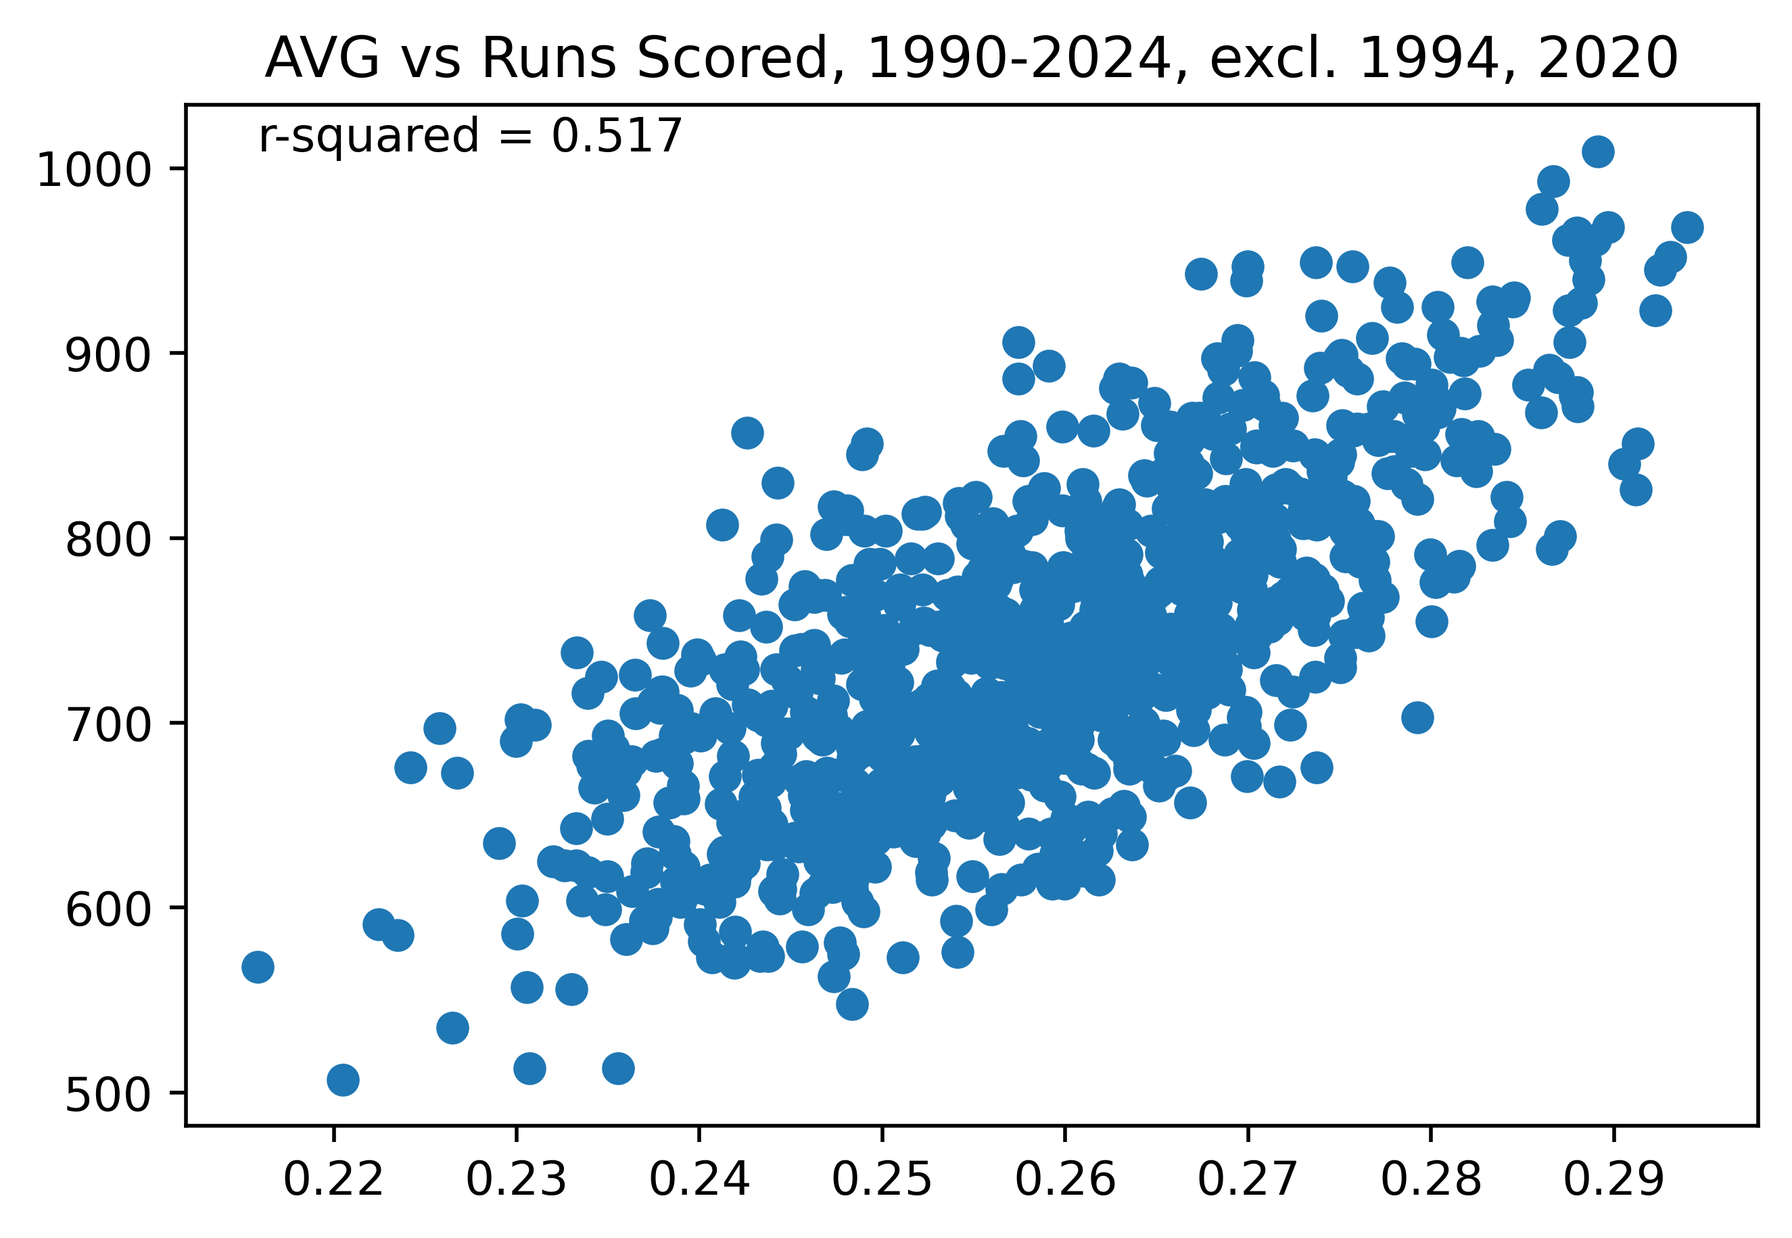
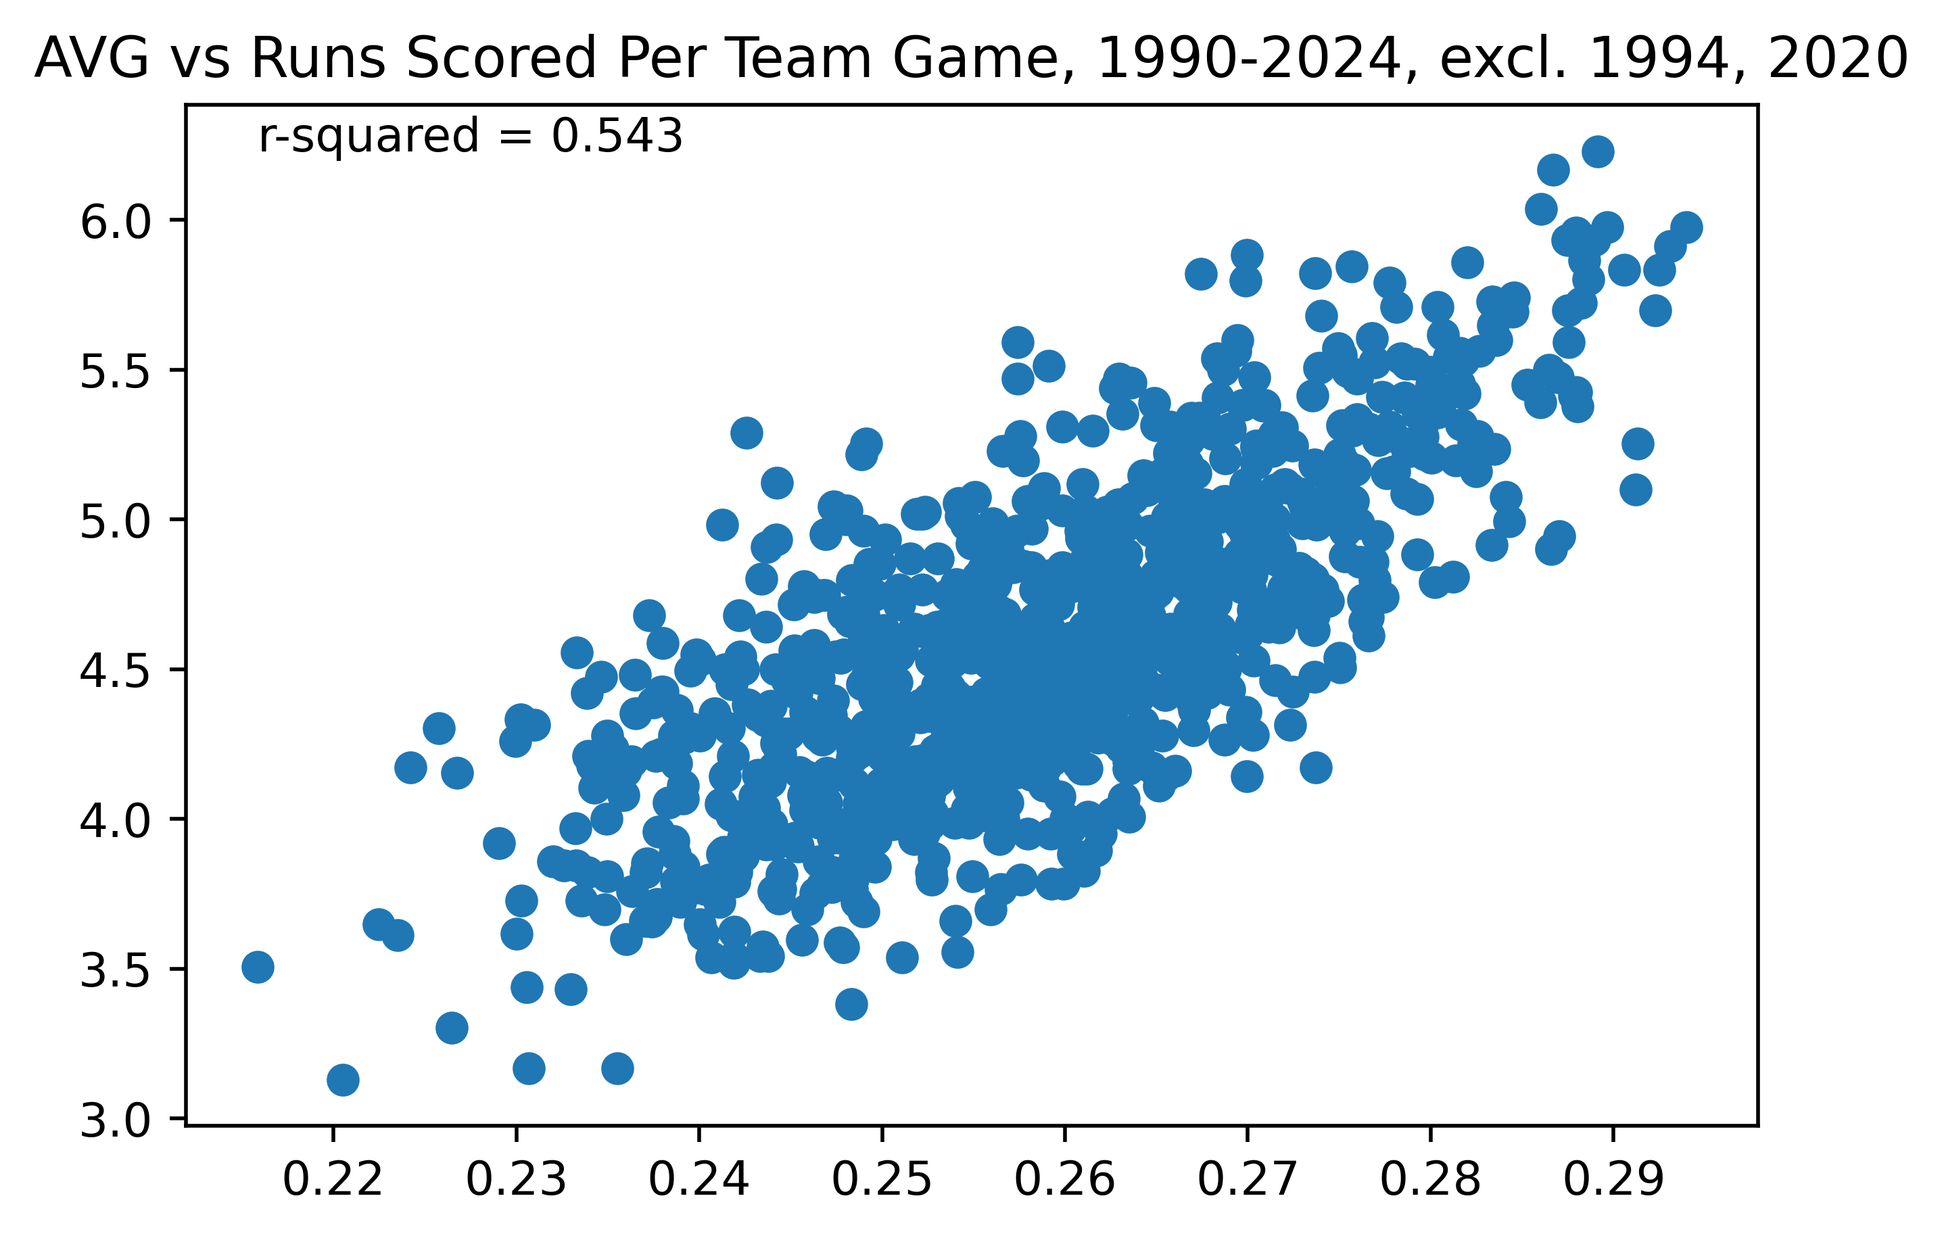
[PUBLISHER] MERGE #21
* PUSH NOTE : 004 wOBA.md

* PUSH ATTACHMENT : woba_vs_runs.png

* PUSH NOTE : 003 Run Expectancy.md

* PUSH NOTE : 001 What's so bad about batting average.md

* PUSH ATTACHMENT : avg_vs_runs.png

* PUSH ATTACHMENT : obp_vs_runs.png

* PUSH NOTE : 002 On-Base Plus Slugging.md

* PUSH ATTACHMENT : ops_vs_runs.png

diff --git a/content/Intro to Sabermetrics/101 Basic Hitting Stats/Weighted On Base Average and Linear Weights (Sabermetrics 101: Basic Hitting Stats — Part 4).md b/content/Intro to Sabermetrics/101 Basic Hitting Stats/Weighted On Base Average and Linear Weights (Sabermetrics 101: Basic Hitting Stats — Part 4).md
@@ -1,0 +1,73 @@
+---
+title: "Weighted On Base Average and Linear Weights (Sabermetrics 101: Basic Hitting Stats — Part 4)"
+permalink: sabermetrics/101/2025-05-08-woba
+category: Intro to Sabermetrics/101 Basic Hitting Stats
+tags:
+  - sabermetrics
+  - sabermetrics-101
+publish: true
+share: true
+Section: "[[101 Basic Hitting Stats]]"
+publishDate: 2025-05-08
+modified: 2025-05-08
+custom-tags: "[[Baseball]]"
+---
+Our next step on our Sabermetric journey takes us through wOBA. It is simultaneously one of the most and least well known advanced stats in the sport of baseball. Most people who are big fans of baseball have probably at least *heard of* [[Weighted On Base Average and Linear Weights (Sabermetrics 101: Basic Hitting Stats — Part 4)|wOBA]] or its child stat, wRC+, but what actually is it? I'm not going to waste any time here, I'll just show you its formula for the year 2025:
+
+> [!info] Equation 1, wOBA Formula
+> $$
+> \text{wOBA} = \dfrac{.699\cdot\text{uBB}+.730\cdot\text{HBP}+.895\cdot\text{1B}+1.274\cdot\text{2B}+1.615\cdot\text{3B}+2.084\cdot\text{HR}}{\text{AB}+\text{BB}-\text{IBB}+\text{SF}+\text{HBP}}
+> $$
+
+Now that you've seen the formula, your question is probably, "where did all those numbers come from?" With OBP, SLG, and other stats, it's very clear. They all come from things we can see: the number of times someone gets on base or the number of bases they get on their hits. But these numbers seem to sort of materialize out of thin air.
+
+On a side note, if your other question is "what is uBB", the answer is unintentional walks. wOBA does not give credit to the hitter for intentional walks, as those are more often made on strategy calls than being from the merit of the hitter. And even when it's due to the hitter being good, no hitter is good enough to induce an IBB without other circumstances that are related to the skill of their teammates (runners on base, late innings, etc). So, intentional walks aren't attributed to the hitter (though, they are not *penalized* for an intentional walk either, as it is subtracted from the denominator)
+
+>[!info] Optional but interesting thoughts on the philosophies of Sabermetrics
+>The decision on IBBs is a decision made by the people who calculate wOBA at Fangraphs. It is a also a decision with which you can and may disagree. You can recalculate wOBA with intentional walks included if you would like, and that is the beauty of Sabermetrics, as you will learn more and more later on (especially with WAR). Tom Tango and the other minds behind these statistics merely provide a framework which they believe, in theory, can be ideal to calculate a player's value. You can adjust the implementation however you would like. For example, [I once calculated](https://github.com/jso8910/situational_wOBA?tab=readme-ov-file) wOBA in a way which took into account the different base-out states that a hitter came to bat in, based on [an article by Tom Tango](https://tangotiger.net/wpali.html). This form of wOBA can be seen as giving credit to a hitter for good strategy (for example, working a walk is not always equally valuable—if a base is open, it is less valuable) while also not giving them too much credit for being up to bat in high leverage situations (all of the wOBA weights are divided by leverage index in this situation, which essentially neutralizes any advantage of, for example, hitting with the bases loaded vs bases empty in this formula). It doesn't give an advantage to a hitter for having good teammates, but it gives them credit for changing their approach at the plate depending on the base-out state.
+>
+>I am, of course, getting ahead of myself. That last bit especially about leverage index won't make much sense right now, but it will when I explain it later on in 201 Advanced Value Stats.
+
+Anyways, where does this formula come from? The answer is quite simple: run expectancy. If you've read [[../../Intro To Sabermetrics/101 Basic Hitting Stats/Run Expectancy (Sabermetrics 101: Basic Hitting Stats — Part 3)|my previous article]] on run expectancy, you'll know how run expectancy is calculated: you count all the runs scored during plays with a certain base-out state and then after it in the inning, then you take the average of that count, and that's the number of runs you'd expect to score from a base-out state. As it turns out, you can use this to calculate the value of a hitter. Of course, we don't want to give the hitter credit for the base-out state they come to bat in—is it fair that a hitter who hits a grand slam gets more credit for their hit than one which hits a solo home run?—so we need to find a way to remove context from this situation.
+
+This is a challenge which perplexed me when I was first learning about wOBA years ago. After a single, there are so many possible base-out states, how can you possibly account for them all? As it turns out, the answer is equally as simple as calculating run expectancy. What you do to calculate the value of a single is you calculate the $\Delta\text{RE}$ (change in run expectancy from before the play to after the play, or the value of the play in run expectancy) for every single which has occurred in your set of plays. Then, you divide it by the number of singles, to get the average expected value of a single above average. You can then repeat this for all plays you need values for (uBB, HBP, 1B, 2B, 3B, HR, any out).
+
+It is important to note the "above average" part of that definition, as this becomes important later. Let's look at an individual play, for instance. With bases empty, 0 outs, the run expectancy is 0.481 runs. That means that the average team would score 0.481 runs *on average* in that situation. When a single is hit, that changes the base-out state to 0 outs, runner on first, which has a run expectancy of 0.859 runs. That means that the action of the hitter who hit the single has increased the run expectancy by 0.378 runs above the average run expectancy going into the PA. An average team would score 0.481 runs, but the hitter has now been responsible for increasing that by 0.378 runs, which means they have *created* 0.378 runs above the average.
+
+If, for any reason, you've been following along to this point, calculating wOBA for yourself, you will still notice something: all these numbers seem quite... small. The weight for uBB which you have so far is likely somewhere around 0.29. Do not fret, you have not made a mistake, you are just missing two final steps.
+
+The powers that be (Tom Tango, in his famous "The Book", written with Michael Lichtman and Andrew Dolphin) decided that wOBA needed to be a stat which was easily understandable. So, they decided to put it on a familiar scale: that of OBP. So, it is defined that the average wOBA is equal to the average OBP.
+
+This moves us on to the second to last step in calculating those fancy numbers in the wOBA equation. In OBP, the value of an out is defined to be zero. So, in wOBA, the same is true. What you do when you calculate wOBA is you normalize it, to make the value of an out to be zero. If, for instance, the value of a single were calculated to be 0.4 runs while the value of an out was calculated to be -0.2 runs, you would subtract the value of an out from the value of a single to get 0.6 runs above the value of an out.
+
+Finally, you calculate the league average wOBA. This is simply done by calculating the wOBA of the whole league in the sample of plays you're calculating the linear weights for. You take every single unintentional walk in baseball and multiply it by the constant you have, then every single HBP, and so on, until you get a number. This number will be too small (for 2025, you should get something in the ballpark of .250—I'm not calculating this but making an educated guesstimate). So, you divide $\dfrac{\text{lgOBP}}{\text{League Unadjusted wOBA}}$ to get a value called [[Weighted On Base Average and Linear Weights (Sabermetrics 101: Basic Hitting Stats — Part 4)|wOBA scale]]. Finally, the formula is achieved. When you multiply each weight in the wOBA formula by that wOBA scale, the wOBA scale has now been normalized so the league average wOBA is equal to the league average OBP.
+
+What I have described is the calculation of [[Weighted On Base Average and Linear Weights (Sabermetrics 101: Basic Hitting Stats — Part 4)|linear weights]]. These quantify the impact of certain events on the run expectancy of a team, which can be used in many versatile ways. You can use them to isolate the individual offensive output of a player. You can use them to see whether a team may or may not be getting a bit lucky with the sequencing of their hits—if their cumulative team wOBA suggests they should be scoring fewer runs than they are, then maybe they're slightly lucky. Linear weights are the foundation of modern baseball Sabermetric hitting stats.
+
+So, to calculate wOBA, you multiply the number of outcomes of a certain type by its corresponding weight (and you can include more outcomes if you want! The formula I provided is merely the one which Fangraphs uses, you could add the number of times a batter reaches on error, or even wild pitches during their at bats if you were so daring—I wouldn't agree with that latter decision on wild pitches, but you could do it if you wanted) and then divide it by the number of PAs minus the number of IBBs (to avoid penalizing the hitter for intentional walks).
+
+Oh! Before I forget, here are our important charts for wOBA.
+
+![[../../00 internal files/Assets/woba_vs_runs.png|woba_vs_runs.png]]
+**Figure 1. Team wOBA vs Runs Scored, 1990-2024, excl. 1994, 2020**
+
+Before I show the second important chart (the percentiles table), I have to add a note here. Figure 1 shows wOBA has an r<sup>2</sup> that is *lower* than that of OPS when compared to team runs per game. Why is this? It's because wOBA isn't strictly designed to be a team stat. Its goal is not to approximate team runs scored—what's the point of that, we have individual runs. Its goal is to approximate the impact of an *individual player* on their team. Which is why it excludes things like sacrifice flies and intentional walks—players simply don't have much control over that. But they're still things that happen (and which teams as a monolithic unit along with their manager have control over, but not the individual players), so naturally wOBA will be very slightly less predictive against team runs scored (and keep in mind how slight this is, it's still miles better than OBP or AVG).
+
+| Percentile | wOBA |
+| --- | --- |
+| 10th | 0.297 |
+| 20th | 0.309 |
+| 30th | 0.318 |
+| 40th | 0.327 |
+| 50th | 0.335 |
+| 60th | 0.344 |
+| 70th | 0.352 |
+| 80th | 0.364 |
+| 90th | 0.382 |
+**Table 1. Percentiles of OBP among qualified players, 2010–2024**
+
+You'll notice Table 1 looks very very similar to the OBP table. Naturally the 50th percentile is the same on both charts, and all the percentiles match up almost perfectly. I'm actually not entirely sure why this is. The only thing that's been adjusted in calculation of wOBA is its mean, not its standard deviation. That is an interesting question for one to explore (and let me know!). The fun thing is, I don't actually need to go through Fangraphs to let everyone know the *actual* league average for this stat, because you can just go back to [[../../Intro To Sabermetrics/101 Basic Hitting Stats/What's so bad about batting average? (Sabermetrics 101: Basic Hitting Stats — Part 1)|the article on OBP]] to see what the league average OBP generally is, and that is by definition the same as the league average wOBA!
+
+Finally, we are finished with our foray into the calculation of wOBA. Next week, I'll be exploring how to calculate the children of wOBA: wRAA and its more popular, and attractive sibling, wRC+.
+
+These articles are getting very long. I truly apologize, but there's just so much to say.

diff --git a/content/Intro To Sabermetrics/101 Basic Hitting Stats/On-Base Plus Slugging (Sabermetrics 101: Basic Hitting Stats — Part 2).md b/content/Intro To Sabermetrics/101 Basic Hitting Stats/On-Base Plus Slugging (Sabermetrics 101: Basic Hitting Stats — Part 2).md
@@ -31,27 +31,26 @@ Once again, this is caveated with the fact that a player with a .440 SLG isn’t
 
 Next, these two stats are combined to form OPS. A player with a .325 OBP and a .450 SLG will have a .775 OPS. OPS is incredibly simple to calculate once you know these two numbers because all it asks you to do is add them together. This is one of its many merits.
 
-| Percentile | OPS   |
-| ---------- | ----- |
-| 0.0        | 0.539 |
-| 0.1        | 0.678 |
-| 0.2        | 0.709 |
-| 0.3        | 0.732 |
-| 0.4        | 0.753 |
-| 0.5        | 0.776 |
-| 0.6        | 0.797 |
-| 0.7        | 0.821 |
-| 0.8        | 0.853 |
-| 0.9        | 0.900 |
+| Percentile | OPS |
+| --- | --- |
+| 10th | 0.678 |
+| 20th | 0.709 |
+| 30th | 0.732 |
+| 40th | 0.753 |
+| 50th | 0.776 |
+| 60th | 0.797 |
+| 70th | 0.821 |
+| 80th | 0.853 |
+| 90th | 0.900 |
 **Table 2. Percentiles of OPS among qualified hitters, 2010–2024**
 
 I know I sound like a broken record but, once again, these values in Table 2 are inflated. The actual league average OPS ranges somewhere between .700 and .758, with its value most recently being .711 on average in the year 2024. Frankly, the reason I don't care too much about the values in these tables being inflated is because I think the most valuable thing you can gauge from this data is firstly the approximate good and bad lines, and secondly the variance in the statistic (is every player almost the same? Do players sometimes vary by hundreds of points?). You shouldn't necessarily use these tables as gospel when evaluating players. I'll introduce some stats later on that can serve the same purpose as these tables but are much more intuitive and easy to use.
 
-So, now you have an idea of what it is and how to evaluate it, but how good is OPS at its job, predicting run production? Pretty good, actually. Figure 2 below shows how a team’s OPS correlates with their runs scored over a season.
+So, now you have an idea of what it is and how to evaluate it, but how good is OPS at its job, predicting run production? Pretty good, actually. Figure 2 below shows how a team’s OPS correlates with their runs scored per team game played.
 
 ![[../../00 internal files/Assets/ops_vs_runs.png|ops_vs_runs.png]]
 **Figure 1. Team OPS vs Runs Scored, 1990-2024, excl. 1994, 2020**
 
-As you'll recall from my article [[./What's so bad about batting average? (Sabermetrics 101: Basic Hitting Stats — Part 1)|on OBP]], OBP has an r-squared of 0.704 against runs scored. OPS, in Figure 1, has an r-squared of 0.878. Even visually you can recognize how closely OPS corresponds with run scoring. OPS is incredibly good at predicting the number of runs a team will score over a season because it encompasses and accounts for all outcomes.
+As you'll recall from my article [[./What's so bad about batting average? (Sabermetrics 101: Basic Hitting Stats — Part 1)|on OBP]], OBP has an r-squared of 0.704 against runs scored. OPS, in Figure 1, has an r-squared of 0.899. Even visually you can recognize how closely OPS corresponds with run scoring. OPS is incredibly good at predicting the number of runs a team will score over a season because it encompasses and accounts for all outcomes.
 
 However, and I swear this will be the last rug pull of the basic batting stats section of this series, OPS is still not as good as we can get. The astute (or analytical) among you will notice that this number is incredibly arbitrary. It corresponds well with run scoring which is great, but there is no clear reason why nor is there any correspondence between the value of OPS and the number of runs a team would be expected to score. Of course we can run a regression between OPS and runs scored, but this relies on happenstance that OPS and runs scored linearly correlate (and it will become especially relevant in the 201 Advanced Value Stats section of this series later on). It does work, and if you really wanted to, you could stop here, never go to any stat more advanced than OPS, and be happy. Honestly, for most people, it will do a perfectly good job. Next week will be the start of a two-parter mini-series of articles which will culminate in the wOBA stat. 

diff --git a/content/Intro To Sabermetrics/101 Basic Hitting Stats/What's so bad about batting average? (Sabermetrics 101: Basic Hitting Stats — Part 1).md b/content/Intro To Sabermetrics/101 Basic Hitting Stats/What's so bad about batting average? (Sabermetrics 101: Basic Hitting Stats — Part 1).md
@@ -26,13 +26,13 @@ How can I make this vague benefit more clear? Great question. By creating a grap
 
 For this comparison, we will be using the coefficient of determination, otherwise known as r-squared. It essentially represents the proportion of response in the y-variable (the dependent variable) that can be explained by change in the x-variable (the independent variable). In this instance, the dependent variable will be runs scored, and the independent variable will be either AVG or OBP. R-squared therefore represents the proportion of the change in runs scored accounted for by batting average.
 
-![[../../00 internal files/Assets/avg_vs_runs.png|Average vs Runs Scored]]
-**Figure 1. Team AVG vs Runs Scored, 1990-2024, excl. 1994, 2020**
+![[../../00 internal files/Assets/avg_vs_runs.png|avg_vs_runs.png]]
+**Figure 1. Team AVG vs Runs Scored Per Team Game, 1990-2024, excl. 1994, 2020**
 
-![[../../00 internal files/Assets/obp_vs_runs.png|OBP vs Runs Scored}]]
+![[../../00 internal files/Assets/obp_vs_runs.png|obp_vs_runs.png]]
 **Figure 2. Team OBP vs Runs Scored, 1990-2024, excl. 1994, 2020**
 
-As can be seen, the correlation between OBP and runs scored (excluding the two shortened seasons) is much stronger than that of AVG and runs scored, with an r-squared of 0.704 in Figure 1 vs an r-squared of 0.517 in Figure 2. This means that OBP is a stronger stat which more clearly correlates with runs scored. As discussed above, this is simply because it accounts for more outcomes, rather than just the singular outcome of “hit” or “no hit”. This is why we prefer to use stats like OBP rather than batting average: because OBP better correlates with runs scored.
+As can be seen, the correlation between OBP and runs scored (excluding the two shortened seasons, which have lower sample sizes and thus are more likely to produce outliers) is much stronger than that of AVG and runs scored, with an r-squared of 0.739 in Figure 1 vs an r-squared of 0.543 in Figure 2. This means that OBP is a stronger stat which more clearly correlates with runs scored per game by a team. As discussed above, this is simply because it accounts for more outcomes, rather than just the singular outcome of “hit” or “no hit”. This is why we prefer to use stats like OBP rather than batting average: because OBP better correlates with runs scored.
 
 Table 1 is a table of OBP percentiles among players over a qualified season (a qualified season is a season in which a hitter has 3.1 plate appearances per scheduled game for their league—for a 162 game season a minimum of 503 PAs). It uses data from 2010 to 2024 to give you an idea of what a “good” or “bad” OBP is. Percentiles divide a dataset into equal groups. The 50th percentile is the average player, the 100th percentile is the best player, and the 0th percentile is the worst player. If a player were, for example, in the 90th percentile, that would mean that about 10% of players are better than them and 90% of players are worse than them.
 
